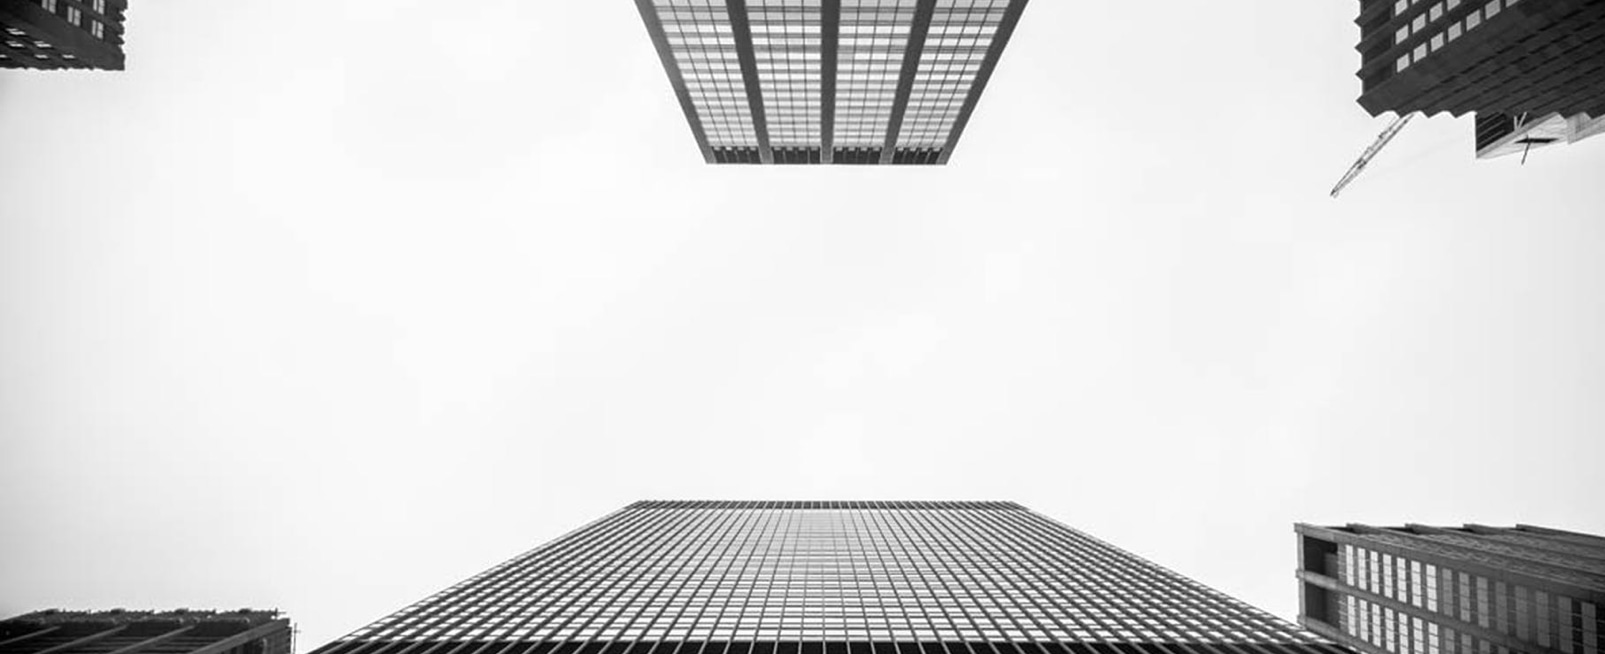
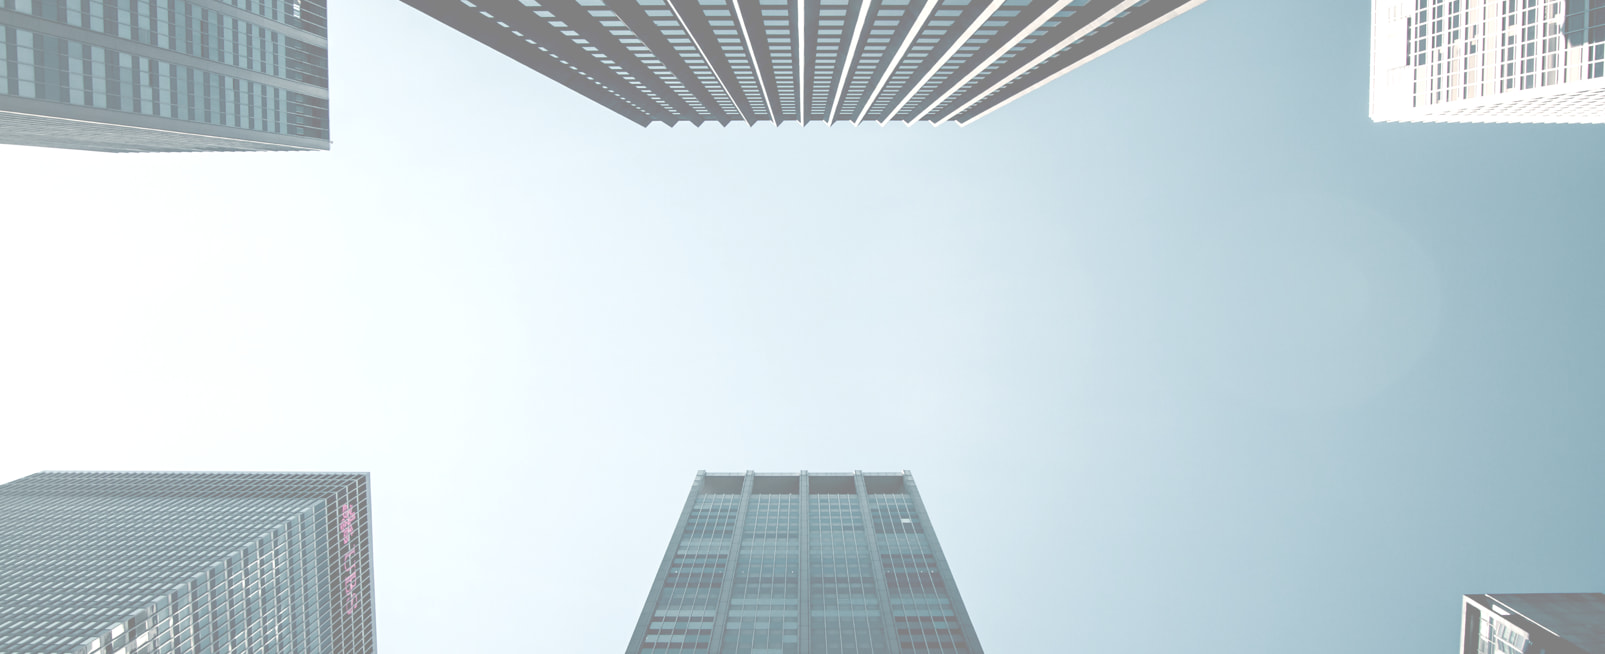
Изменил фото фона в блоке mission

diff --git a/source/css/style.min.css b/source/css/style.min.css
@@ -1,1 +1,1 @@
-@font-face{font-family:"Playfair";font-weight:700;font-display:swap;font-style:normal;src:url(../fonts/playbold.woff2) format("woff2"),url(../fonts/playbold.woff) format("woff")}@font-face{font-family:"Ubuntu";font-weight:400;font-display:swap;font-style:normal;src:url(../fonts/ubuntu.woff2) format("woff2"),url(../fonts/ubuntu.woff) format("woff")}@font-face{font-family:"Ubuntu";font-weight:300;font-display:swap;font-style:normal;src:url(../fonts/ubuntulight.woff2) format("woff2"),url(../fonts/ubuntulight.woff) format("woff")}@font-face{font-family:"Ubuntu";font-weight:300;font-display:swap;font-style:italic;src:url(../fonts/ubuntulightitalic.woff2) format("woff2"),url(../fonts/ubuntulightitalic.woff) format("woff")}html{-webkit-box-sizing:border-box;box-sizing:border-box;scroll-behavior:smooth}*,::after,::before{-webkit-box-sizing:inherit;box-sizing:inherit}body{margin:0;padding:0}a{text-decoration:none}.visually-hidden{position:absolute;width:1px;height:1px;margin:-1px;border:0;padding:0;clip:rect(0 0 0 0);overflow:hidden;font-size:0}.container{min-width:320px;padding:0 3.75%}.heading{font-family:"Playfair","Arial",sans-serif;font-size:21px;font-weight:700;line-height:25px;color:#232221;text-transform:uppercase;letter-spacing:.55px}.descriptor{font-family:"Ubuntu","Arial",sans-serif;font-size:14px;font-weight:300;line-height:24px;color:#7a7a7c}@media (min-width:768px){.heading{font-size:30px;line-height:35px;letter-spacing:.79px}.descriptor{font-size:16px;line-height:34px}}@media (min-width:1280px){.container{padding:0 2.10938%}}@media (min-width:1920px){.container{padding:0 8.17708%}}.header>.container{position:relative;display:-webkit-box;display:-ms-flexbox;display:flex;-webkit-box-pack:justify;-ms-flex-pack:justify;justify-content:space-between;-ms-flex-wrap:wrap;flex-wrap:wrap;padding-top:20px}@media (min-width:768px){.header>.container{-webkit-box-pack:start;-ms-flex-pack:start;justify-content:flex-start;padding-top:30px}.header__logo{-webkit-box-ordinal-group:2;-ms-flex-order:1;order:1}.header__icon{width:174px;height:30px}.header__lang{-webkit-box-ordinal-group:4;-ms-flex-order:3;order:3}.header__nav{-webkit-box-ordinal-group:3;-ms-flex-order:2;order:2;margin-left:auto;margin-right:70px}}.lang__list{display:-webkit-box;display:-ms-flexbox;display:flex;margin:0;padding:3px 45px 0 0;list-style:none}.lang__item--eng{margin-right:17px}.lang__link{font-family:"Ubuntu","Arial",sans-serif;font-size:14px;font-weight:400;line-height:20px;letter-spacing:1.05px;color:#7a7a7c}.lang__link:not([href]){color:#232221}@media (min-width:768px){.lang__list{padding:0}}.nav{width:100%}.nav__toggle{position:absolute;top:22px;right:4.0625%;margin:0;padding:0;font-size:0;background-color:transparent;border:0;cursor:pointer}.nav-opened .nav__toggle{width:21px;height:21px}.nav-closed .nav__toggle{width:25px;height:21px}.nav-opened .nav__icon--close{display:block}.nav-closed .nav__icon--close,.nav-opened .nav__icon--open{display:none}.nav-closed .nav__icon--open{display:block}.nav__icon use{fill:#232221}.nav__wrapper{position:absolute;padding-bottom:27px;width:calc(100% - 2*100%*12/320);background-color:#fff;-webkit-transition-duration:.2s;transition-duration:.2s}.nav-opened .nav__wrapper{-webkit-transform:translateX(0);transform:translateX(0);opacity:1;pointer-events:all;z-index:2}.nav-closed .nav__wrapper{-webkit-transform:translateX(-200px);transform:translateX(-200px);opacity:0;pointer-events:none}.nav__intro{margin:40px 0 0;padding:0;width:220px;font-family:"Playfair","Arial",sans-serif;font-size:21px;font-weight:700;line-height:25px;color:#232221;text-transform:uppercase;letter-spacing:.55px}.nav__list{margin:30px 0 0;padding:0;list-style:none}.nav__link{position:relative;display:block;padding:16px 0;font-family:"Ubuntu","Arial",sans-serif;font-size:14px;font-weight:400;line-height:20px;color:#232221;letter-spacing:1.05px}.nav__link::before{content:"";position:absolute;top:0;left:-4.0625%;width:calc(100% + 2*100%*13/320);height:1px;background-color:rgba(122,122,124,.2)}.nav__item:last-of-type .nav__link::after{content:"";position:absolute;bottom:0;left:-4.0625%;width:calc(100% + 2*100%*13/320);height:1px;background-color:rgba(122,122,124,.2)}.nav__contacts{margin:70px 0 0;padding:0;list-style:none}.nav__contact{font-family:"Ubuntu","Arial",sans-serif;font-size:16px;font-weight:300;line-height:22px;color:#7a7a7c}.nav__contact:not(:first-of-type){margin-top:20px}@media (min-width:768px){.nav{width:auto}.nav__contacts,.nav__intro,.nav__link::after,.nav__link::before,.nav__toggle{display:none}.nav div.nav__wrapper{position:static;width:auto;-webkit-transform:translateX(0);transform:translateX(0);opacity:1;pointer-events:all}.nav__list{display:-webkit-box;display:-ms-flexbox;display:flex;margin:0}.nav__item:not(:last-of-type){margin-right:40px}.nav__link{display:inline;padding:0;color:#7a7a7c}.nav__link:hover{color:#232221}.nav__link:hover::before{content:"";position:absolute;top:auto;bottom:-10px;left:0;display:block;width:100%;height:5px;background-color:#232221}}.competency{margin-top:40px}.competency__wrapper{position:relative;padding:72px 0}.competency__wrapper::before{content:"";position:absolute;top:0;right:0;width:75.86207%;height:100%;background-image:url(../img/competency__bg.jpg);background-size:cover;background-repeat:no-repeat;z-index:-1}.competency__heading{margin:0}.competency__descriptor{margin:15px 0 0;width:75.86207%;max-width:490px}.competency__link{display:inline-block;margin-top:30px;font-family:"Ubuntu","Arial",sans-serif;font-size:14px;font-weight:400;line-height:20px;letter-spacing:1.05px;color:#232221}@media (min-width:768px){.competency__wrapper{padding:149px 0}.competency__wrapper::before{width:74.22512%}.competency__descriptor{margin-top:35px;width:69.01408%}.competency__link{margin-top:80px}}@media (min-width:1280px){.competency__descriptor{width:39.96737%;max-width:650px}}@media (min-width:1920px){.competency__wrapper{padding:258px 0}.competency__wrapper::before{width:74.40847%}.competency__descriptor{width:650px}}.about{margin-top:30px}.about__img{width:100%}.about__address{margin:20px 0 0;font-family:"Ubuntu","Arial",sans-serif;font-size:16px;font-weight:300;line-height:22px;color:#7a7a7c}.about__heading{margin:40px 0 30px}.about__descriptor{margin:20px 0 0}@media (min-width:768px){.about{margin-top:70px}.about>.container{display:-webkit-box;display:-ms-flexbox;display:flex}.about__contacts{padding-right:20px;width:50%}.about__description{padding-left:20px;width:50%}.about__heading{margin-top:0}}@media (min-width:1280px){.about{margin-top:130px}.about>.container{-webkit-box-pack:justify;-ms-flex-pack:justify;justify-content:space-between}.about__contacts{padding-right:87px;width:calc(100% - 490px - 53px)}.about__address{margin-top:30px}.about__description{padding-right:54px;padding-left:0;width:calc(490px + 53px)}.about__heading{margin-bottom:27px}.about__descriptor:not(:first-of-type){margin-top:50px}}@media (min-width:1920px){.about__contacts{padding-right:105px;width:calc(100% - 650px - 66px)}.about__description{padding-right:66px;width:calc(650px + 66px)}}.team{margin-top:40px}.team__wrapper{position:relative;padding:30px 0}.team__wrapper::before{content:"";position:absolute;top:0;right:0;width:75.86207%;height:100%;background-image:url(../img/team__bg.jpg);background-size:cover;background-repeat:no-repeat;z-index:-1}.team__heading{margin:0 0 30px}.team__descriptor{margin:20px 0 0;width:75.86207%;max-width:490px}@media (min-width:768px){.team__wrapper{padding:130px 0}.team__wrapper::before{width:74.22512%}.team__heading{margin-bottom:35px}.team__descriptor{width:69.01408%}.team__descriptor:not(:first-of-type){margin-top:50px}}@media (min-width:1280px){.team__descriptor{width:39.96737%;max-width:650px}}@media (min-width:1920px){.team__wrapper{padding:258px 0}.team__wrapper::before{width:74.40847%}.team__descriptor{width:650px}}.mission{margin-top:40px}.mission__wrapper{padding:265px 0;background-image:url(../img/mission__bg.jpg);background-repeat:no-repeat;background-size:cover;background-position:52% 0}.mission__heading{margin:0;text-align:center}.mission__descriptor{margin:30px auto 0;width:84.45946%;font-family:"Ubuntu","Arial",sans-serif;font-size:18px;font-weight:300;font-style:italic;line-height:36px;color:#232221;text-align:center}@media (min-width:768px){.mission__wrapper{padding:182px 0}.mission__descriptor{margin-top:35px}}@media (min-width:1280px){.mission__descriptor{width:65.66069%}}@media (min-width:1920px){.mission__wrapper{padding:259px 0}}.contacts{margin-top:40px;padding-bottom:60px}.contacts__list{margin:0;padding:0;list-style:none}.contacts__item{position:relative;padding-left:40px;font-family:"Ubuntu","Arial",sans-serif;font-size:16px;font-weight:400;line-height:22px;color:#7a7a7c}.contacts__item:not(:first-of-type){margin-top:30px}.contacts__link{display:block;color:inherit}.contacts__icon{position:absolute;top:2px;left:0}.contacts__icon--mail{top:5px}.contacts__icon use{fill:#000}@media (min-width:768px){.contacts{margin-top:80px;padding-bottom:80px}.contacts__list{display:-webkit-box;display:-ms-flexbox;display:flex;-webkit-box-pack:justify;-ms-flex-pack:justify;justify-content:space-between;-ms-flex-wrap:wrap;flex-wrap:wrap}.contacts__item{width:220px}.contacts__item:not(:first-of-type){margin-top:0}}@media (min-width:1280px){.contacts__item{width:calc(40px + 340px)}}.footer__wrapper{padding-top:20px;padding-bottom:20px;display:-webkit-box;display:-ms-flexbox;display:flex;-webkit-box-orient:vertical;-webkit-box-direction:normal;-ms-flex-direction:column;flex-direction:column;-webkit-box-align:center;-ms-flex-align:center;align-items:center;border-top:1px solid rgba(122,122,124,.1)}.footer__link{display:inline-block;font-size:0}.footer__icon use{fill:rgba(0,0,0,.2)}.footer__copyright{margin:10px 0 0;font-family:"Ubuntu","Arial",sans-serif;font-size:14px;font-weight:300;line-height:34px;color:#7a7a7c;text-align:center;opacity:.3}@media (min-width:768px){.footer__wrapper{padding-top:30px;padding-bottom:30px;-webkit-box-orient:horizontal;-webkit-box-direction:normal;-ms-flex-direction:row;flex-direction:row;-webkit-box-pack:justify;-ms-flex-pack:justify;justify-content:space-between}.footer__copyright{margin:0;font-size:16px}}
+@font-face{font-family:"Playfair";font-weight:700;font-display:swap;font-style:normal;src:url(../fonts/playbold.woff2) format("woff2"),url(../fonts/playbold.woff) format("woff")}@font-face{font-family:"Ubuntu";font-weight:400;font-display:swap;font-style:normal;src:url(../fonts/ubuntu.woff2) format("woff2"),url(../fonts/ubuntu.woff) format("woff")}@font-face{font-family:"Ubuntu";font-weight:300;font-display:swap;font-style:normal;src:url(../fonts/ubuntulight.woff2) format("woff2"),url(../fonts/ubuntulight.woff) format("woff")}@font-face{font-family:"Ubuntu";font-weight:300;font-display:swap;font-style:italic;src:url(../fonts/ubuntulightitalic.woff2) format("woff2"),url(../fonts/ubuntulightitalic.woff) format("woff")}html{-webkit-box-sizing:border-box;box-sizing:border-box;scroll-behavior:smooth}*,::after,::before{-webkit-box-sizing:inherit;box-sizing:inherit}body{margin:0;padding:0}a{text-decoration:none}.visually-hidden{position:absolute;width:1px;height:1px;margin:-1px;border:0;padding:0;clip:rect(0 0 0 0);overflow:hidden;font-size:0}.container{min-width:320px;padding:0 3.75%}.heading{font-family:"Playfair","Arial",sans-serif;font-size:21px;font-weight:700;line-height:25px;color:#232221;text-transform:uppercase;letter-spacing:.55px}.descriptor{font-family:"Ubuntu","Arial",sans-serif;font-size:14px;font-weight:300;line-height:24px;color:#7a7a7c}@media (min-width:768px){.heading{font-size:30px;line-height:35px;letter-spacing:.79px}.descriptor{font-size:16px;line-height:34px}}@media (min-width:1280px){.container{padding:0 2.10938%}}@media (min-width:1920px){.container{padding:0 8.17708%}}.header>.container{position:relative;display:-webkit-box;display:-ms-flexbox;display:flex;-webkit-box-pack:justify;-ms-flex-pack:justify;justify-content:space-between;-ms-flex-wrap:wrap;flex-wrap:wrap;padding-top:20px}@media (min-width:768px){.header>.container{-webkit-box-pack:start;-ms-flex-pack:start;justify-content:flex-start;padding-top:30px}.header__logo{-webkit-box-ordinal-group:2;-ms-flex-order:1;order:1}.header__icon{width:174px;height:30px}.header__lang{-webkit-box-ordinal-group:4;-ms-flex-order:3;order:3}.header__nav{-webkit-box-ordinal-group:3;-ms-flex-order:2;order:2;margin-left:auto;margin-right:70px}}.lang__list{display:-webkit-box;display:-ms-flexbox;display:flex;margin:0;padding:3px 45px 0 0;list-style:none}.lang__item--eng{margin-right:17px}.lang__link{font-family:"Ubuntu","Arial",sans-serif;font-size:14px;font-weight:400;line-height:20px;letter-spacing:1.05px;color:#7a7a7c}.lang__link:not([href]){color:#232221}@media (min-width:768px){.lang__list{padding:0}}.nav{width:100%}.nav__toggle{position:absolute;top:22px;right:4.0625%;margin:0;padding:0;font-size:0;background-color:transparent;border:0;cursor:pointer}.nav-opened .nav__toggle{width:21px;height:21px}.nav-closed .nav__toggle{width:25px;height:21px}.nav-opened .nav__icon--close{display:block}.nav-closed .nav__icon--close,.nav-opened .nav__icon--open{display:none}.nav-closed .nav__icon--open{display:block}.nav__icon use{fill:#232221}.nav__wrapper{position:absolute;padding-bottom:27px;width:calc(100% - 2*100%*12/320);background-color:#fff;-webkit-transition-duration:.2s;transition-duration:.2s}.nav-opened .nav__wrapper{-webkit-transform:translateX(0);transform:translateX(0);opacity:1;pointer-events:all;z-index:2}.nav-closed .nav__wrapper{-webkit-transform:translateX(-200px);transform:translateX(-200px);opacity:0;pointer-events:none}.nav__intro{margin:40px 0 0;padding:0;width:220px;font-family:"Playfair","Arial",sans-serif;font-size:21px;font-weight:700;line-height:25px;color:#232221;text-transform:uppercase;letter-spacing:.55px}.nav__list{margin:30px 0 0;padding:0;list-style:none}.nav__link{position:relative;display:block;padding:16px 0;font-family:"Ubuntu","Arial",sans-serif;font-size:14px;font-weight:400;line-height:20px;color:#232221;letter-spacing:1.05px}.nav__link::before{content:"";position:absolute;top:0;left:-4.0625%;width:calc(100% + 2*100%*13/320);height:1px;background-color:rgba(122,122,124,.2)}.nav__item:last-of-type .nav__link::after{content:"";position:absolute;bottom:0;left:-4.0625%;width:calc(100% + 2*100%*13/320);height:1px;background-color:rgba(122,122,124,.2)}.nav__contacts{margin:70px 0 0;padding:0;list-style:none}.nav__contact{font-family:"Ubuntu","Arial",sans-serif;font-size:16px;font-weight:300;line-height:22px;color:#7a7a7c}.nav__contact:not(:first-of-type){margin-top:20px}@media (min-width:768px){.nav{width:auto}.nav__contacts,.nav__intro,.nav__link::after,.nav__link::before,.nav__toggle{display:none}.nav div.nav__wrapper{position:static;width:auto;-webkit-transform:translateX(0);transform:translateX(0);opacity:1;pointer-events:all}.nav__list{display:-webkit-box;display:-ms-flexbox;display:flex;margin:0}.nav__item:not(:last-of-type){margin-right:40px}.nav__link{display:inline;padding:0;color:#7a7a7c}.nav__link:hover{color:#232221}.nav__link:hover::before{content:"";position:absolute;top:auto;bottom:-10px;left:0;display:block;width:100%;height:5px;background-color:#232221}}.competency{margin-top:40px}.competency__wrapper{position:relative;padding:72px 0}.competency__wrapper::before{content:"";position:absolute;top:0;right:0;width:75.86207%;height:100%;background-image:url(../img/competency__bg.jpg);background-size:cover;background-repeat:no-repeat;z-index:-1}.competency__heading{margin:0}.competency__descriptor{margin:15px 0 0;width:75.86207%;max-width:490px}.competency__link{display:inline-block;margin-top:30px;font-family:"Ubuntu","Arial",sans-serif;font-size:14px;font-weight:400;line-height:20px;letter-spacing:1.05px;color:#232221}@media (min-width:768px){.competency__wrapper{padding:149px 0}.competency__wrapper::before{width:74.22512%}.competency__descriptor{margin-top:35px;width:69.01408%}.competency__link{margin-top:80px}}@media (min-width:1280px){.competency__descriptor{width:39.96737%;max-width:650px}}@media (min-width:1920px){.competency__wrapper{padding:258px 0}.competency__wrapper::before{width:74.40847%}.competency__descriptor{width:650px}}.about{margin-top:30px}.about__img{width:100%}.about__address{margin:20px 0 0;font-family:"Ubuntu","Arial",sans-serif;font-size:16px;font-weight:300;line-height:22px;color:#7a7a7c}.about__heading{margin:40px 0 30px}.about__descriptor{margin:20px 0 0}@media (min-width:768px){.about{margin-top:70px}.about>.container{display:-webkit-box;display:-ms-flexbox;display:flex}.about__contacts{padding-right:20px;width:50%}.about__description{padding-left:20px;width:50%}.about__heading{margin-top:0}}@media (min-width:1280px){.about{margin-top:130px}.about>.container{-webkit-box-pack:justify;-ms-flex-pack:justify;justify-content:space-between}.about__contacts{padding-right:87px;width:calc(100% - 490px - 53px)}.about__address{margin-top:30px}.about__description{padding-right:54px;padding-left:0;width:calc(490px + 53px)}.about__heading{margin-bottom:27px}.about__descriptor:not(:first-of-type){margin-top:50px}}@media (min-width:1920px){.about__contacts{padding-right:105px;width:calc(100% - 650px - 66px)}.about__description{padding-right:66px;width:calc(650px + 66px)}}.team{margin-top:40px}.team__wrapper{position:relative;padding:30px 0}.team__wrapper::before{content:"";position:absolute;top:0;right:0;width:75.86207%;height:100%;background-image:url(../img/team__bg.jpg);background-size:cover;background-repeat:no-repeat;z-index:-1}.team__heading{margin:0 0 30px}.team__descriptor{margin:20px 0 0;width:75.86207%;max-width:490px}@media (min-width:768px){.team__wrapper{padding:130px 0}.team__wrapper::before{width:74.22512%}.team__heading{margin-bottom:35px}.team__descriptor{width:69.01408%}.team__descriptor:not(:first-of-type){margin-top:50px}}@media (min-width:1280px){.team__descriptor{width:39.96737%;max-width:650px}}@media (min-width:1920px){.team__wrapper{padding:258px 0}.team__wrapper::before{width:74.40847%}.team__descriptor{width:650px}}.mission{margin-top:40px}.mission__wrapper{padding:265px 0;background-image:url(../img/mission__bg.png);background-repeat:no-repeat;background-size:cover;background-position:52% 0}.mission__heading{margin:0;text-align:center}.mission__descriptor{margin:30px auto 0;width:84.45946%;font-family:"Ubuntu","Arial",sans-serif;font-size:18px;font-weight:300;font-style:italic;line-height:36px;color:#232221;text-align:center}@media (min-width:768px){.mission__wrapper{padding:182px 0}.mission__descriptor{margin-top:35px}}@media (min-width:1280px){.mission__descriptor{width:65.66069%}}@media (min-width:1920px){.mission__wrapper{padding:259px 0}}.contacts{margin-top:40px;padding-bottom:60px}.contacts__list{margin:0;padding:0;list-style:none}.contacts__item{position:relative;padding-left:40px;font-family:"Ubuntu","Arial",sans-serif;font-size:16px;font-weight:400;line-height:22px;color:#7a7a7c}.contacts__item:not(:first-of-type){margin-top:30px}.contacts__link{display:block;color:inherit}.contacts__icon{position:absolute;top:2px;left:0}.contacts__icon--mail{top:5px}.contacts__icon use{fill:#000}@media (min-width:768px){.contacts{margin-top:80px;padding-bottom:80px}.contacts__list{display:-webkit-box;display:-ms-flexbox;display:flex;-webkit-box-pack:justify;-ms-flex-pack:justify;justify-content:space-between;-ms-flex-wrap:wrap;flex-wrap:wrap}.contacts__item{width:220px}.contacts__item:not(:first-of-type){margin-top:0}}@media (min-width:1280px){.contacts__item{width:calc(40px + 340px)}}.footer__wrapper{padding-top:20px;padding-bottom:20px;display:-webkit-box;display:-ms-flexbox;display:flex;-webkit-box-orient:vertical;-webkit-box-direction:normal;-ms-flex-direction:column;flex-direction:column;-webkit-box-align:center;-ms-flex-align:center;align-items:center;border-top:1px solid rgba(122,122,124,.1)}.footer__link{display:inline-block;font-size:0}.footer__icon use{fill:rgba(0,0,0,.2)}.footer__link:hover .footer__icon use{fill:#232221;-webkit-transition-duration:.3s;transition-duration:.3s}.footer__copyright{margin:10px 0 0;font-family:"Ubuntu","Arial",sans-serif;font-size:14px;font-weight:300;line-height:34px;color:#7a7a7c;text-align:center;opacity:.3}@media (min-width:768px){.footer__wrapper{padding-top:30px;padding-bottom:30px;-webkit-box-orient:horizontal;-webkit-box-direction:normal;-ms-flex-direction:row;flex-direction:row;-webkit-box-pack:justify;-ms-flex-pack:justify;justify-content:space-between}.footer__copyright{margin:0;font-size:16px}}

diff --git a/source/index.html b/source/index.html
@@ -46,7 +46,7 @@
     </symbol>
   </svg>
 
-  <header class="header">
+  <header class="header" id="header">
     <div class="container">
       <a class="header__logo">
         <svg class="header__icon" width="145" height="25" viewBox="0 0 174 30">
@@ -221,7 +221,7 @@
   <footer class="footer">
     <div class="container">
       <div class="footer__wrapper">
-        <a class="footer__link">
+        <a href="#header" class="footer__link">
           <svg class="footer__icon" width="174" height="30" viewbox="0 0 174 30">
             <use xlink:href="#logo-icon"></use>
           </svg>

diff --git a/source/css/style.css b/source/css/style.css
@@ -507,7 +507,7 @@ a {
 
 .mission__wrapper {
   padding: 265px 0;
-  background-image: url("../img/mission__bg.jpg");
+  background-image: url("../img/mission__bg.png");
   background-repeat: no-repeat;
   background-size: cover;
   background-position: 52% 0; }
@@ -620,6 +620,11 @@ a {
 
 .footer__icon use {
   fill: rgba(0, 0, 0, 0.2); }
+
+.footer__link:hover .footer__icon use {
+  fill: #232221;
+  -webkit-transition-duration: 0.3s;
+          transition-duration: 0.3s; }
 
 .footer__copyright {
   margin: 0;

diff --git a/source/sass/blocks/mission.scss b/source/sass/blocks/mission.scss
@@ -4,7 +4,7 @@
 
 .mission__wrapper {
   padding: 265px 0;
-  background-image: url("../img/mission__bg.jpg");
+  background-image: url("../img/mission__bg.png");
   background-repeat: no-repeat;
   background-size: cover;
   background-position: 52% 0;

diff --git a/source/sass/blocks/footer.scss b/source/sass/blocks/footer.scss
@@ -16,6 +16,11 @@
   fill: rgba(0, 0, 0, 0.2);
 }
 
+.footer__link:hover .footer__icon use {
+  fill: $color__dark;
+  transition-duration: 0.3s;
+}
+
 .footer__copyright {
   margin: 0;
   margin-top: 10px;
